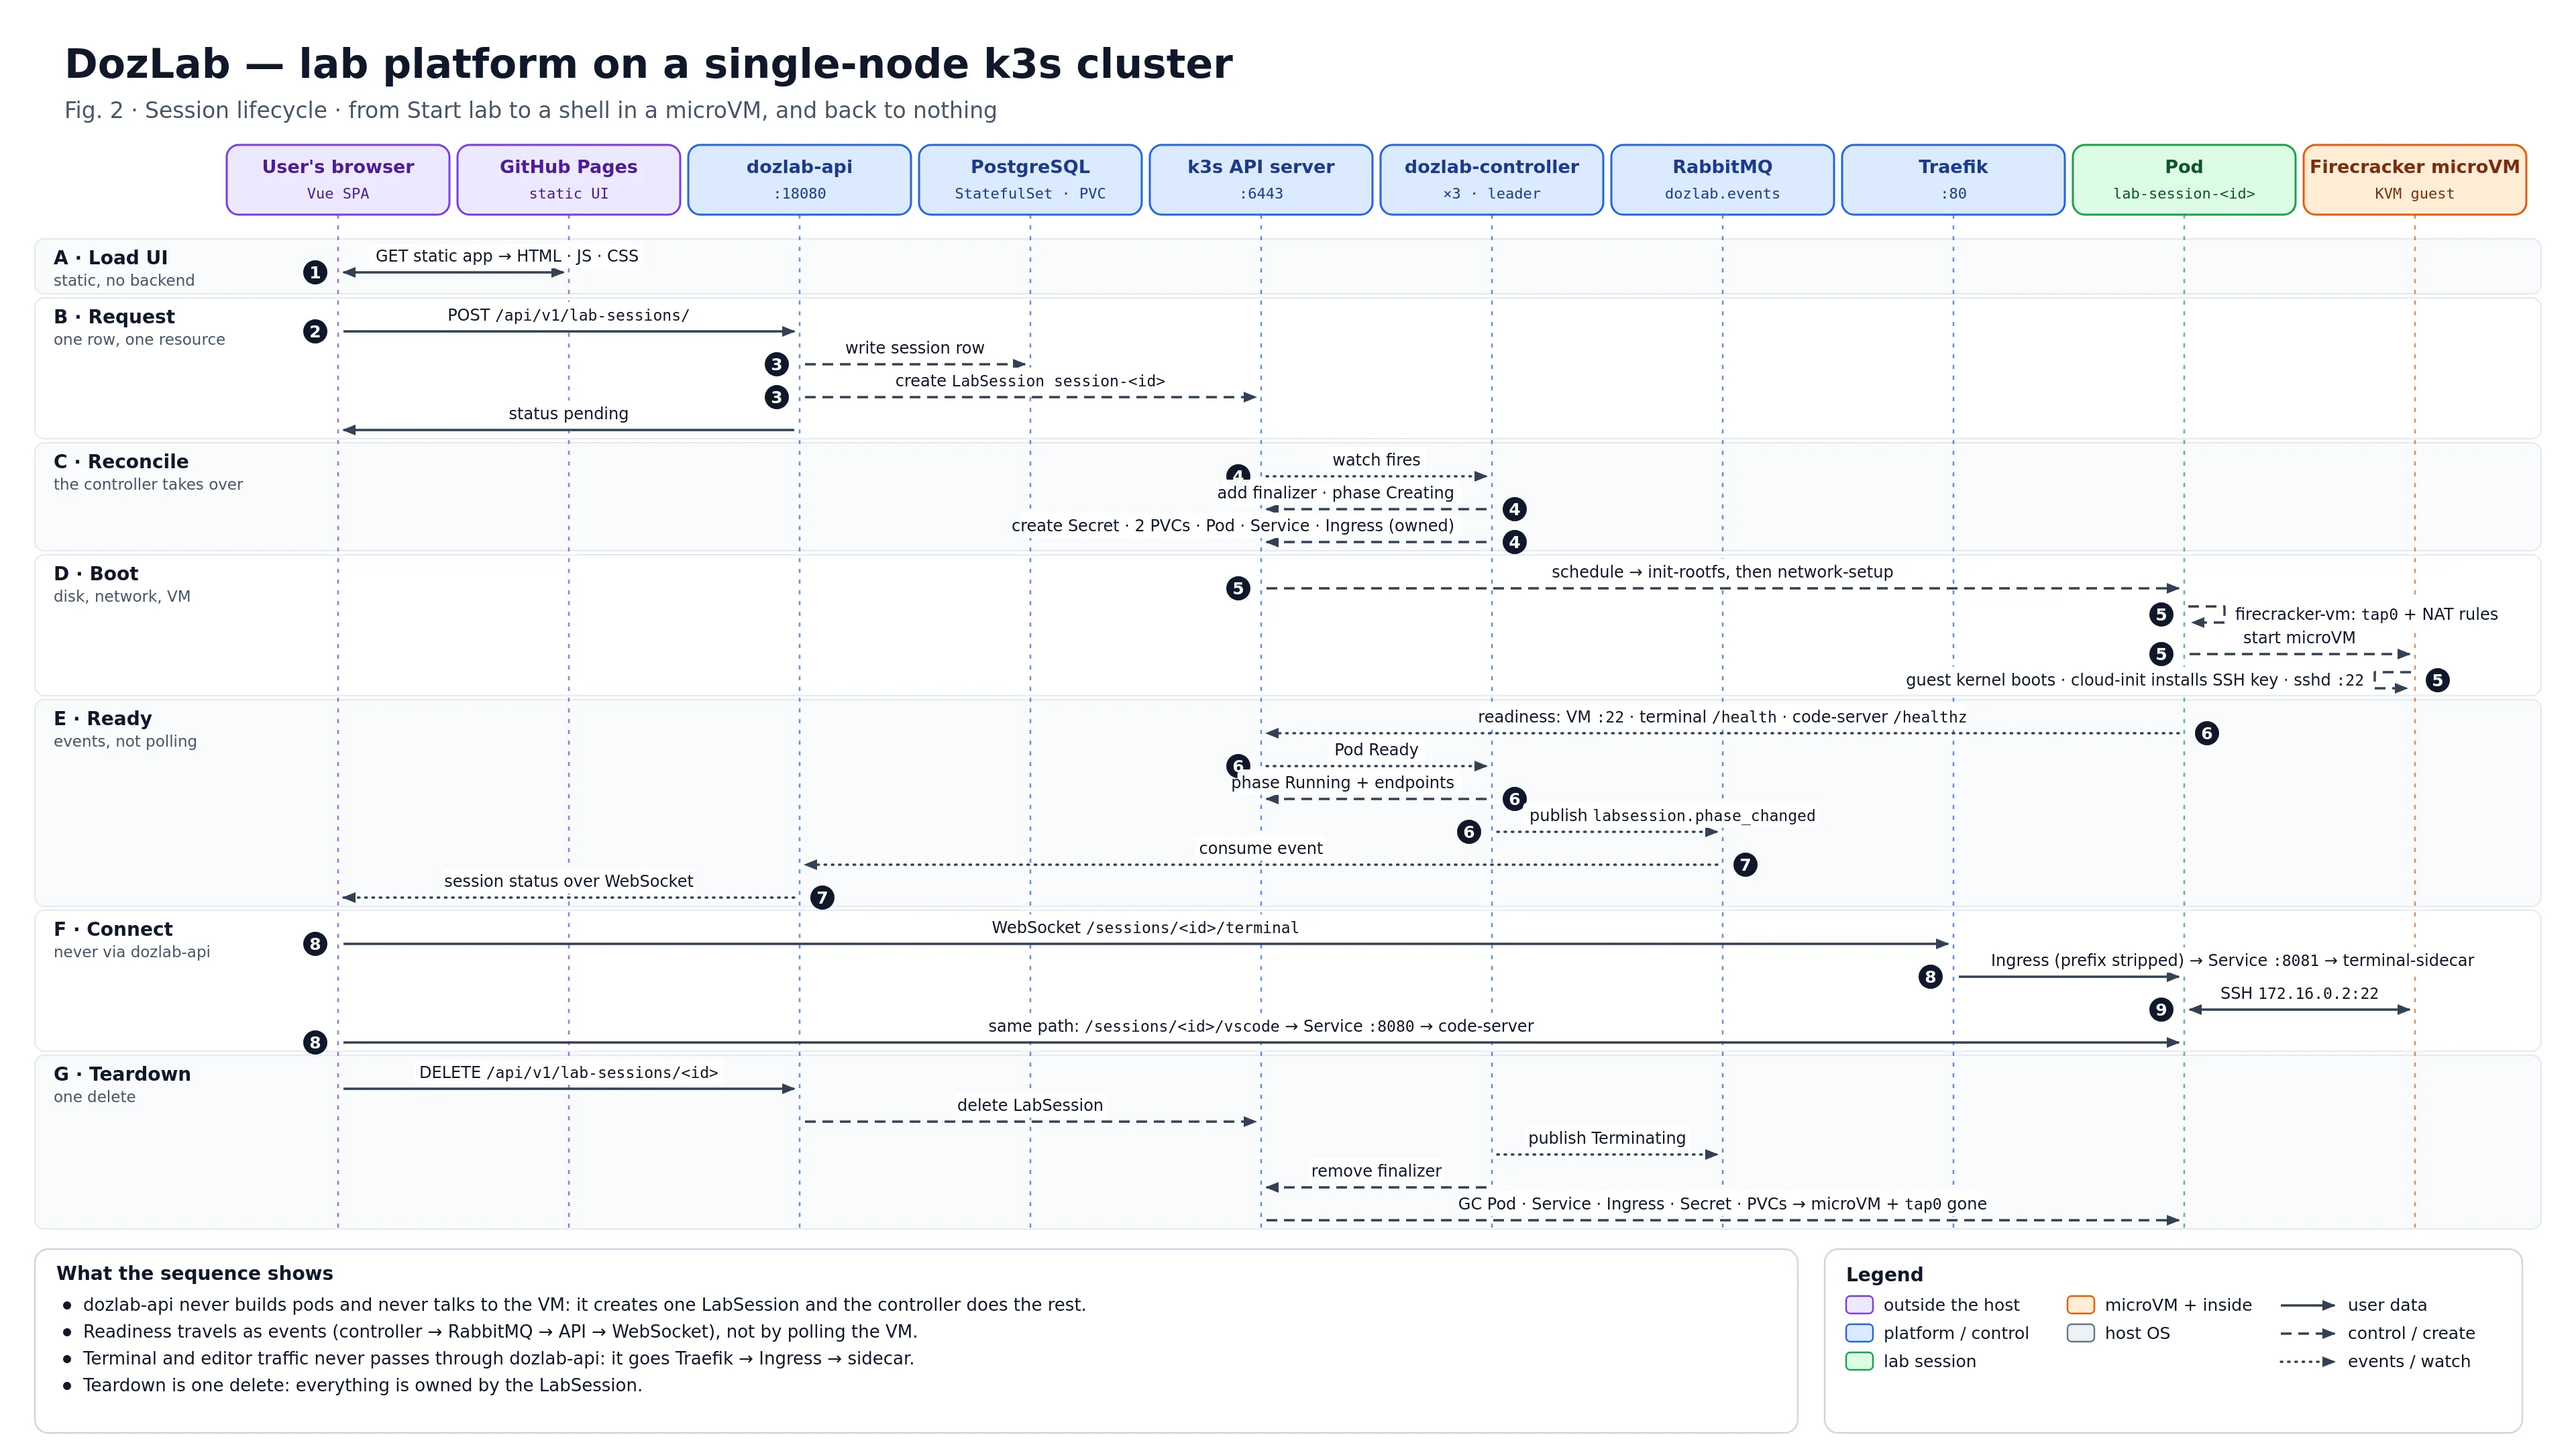
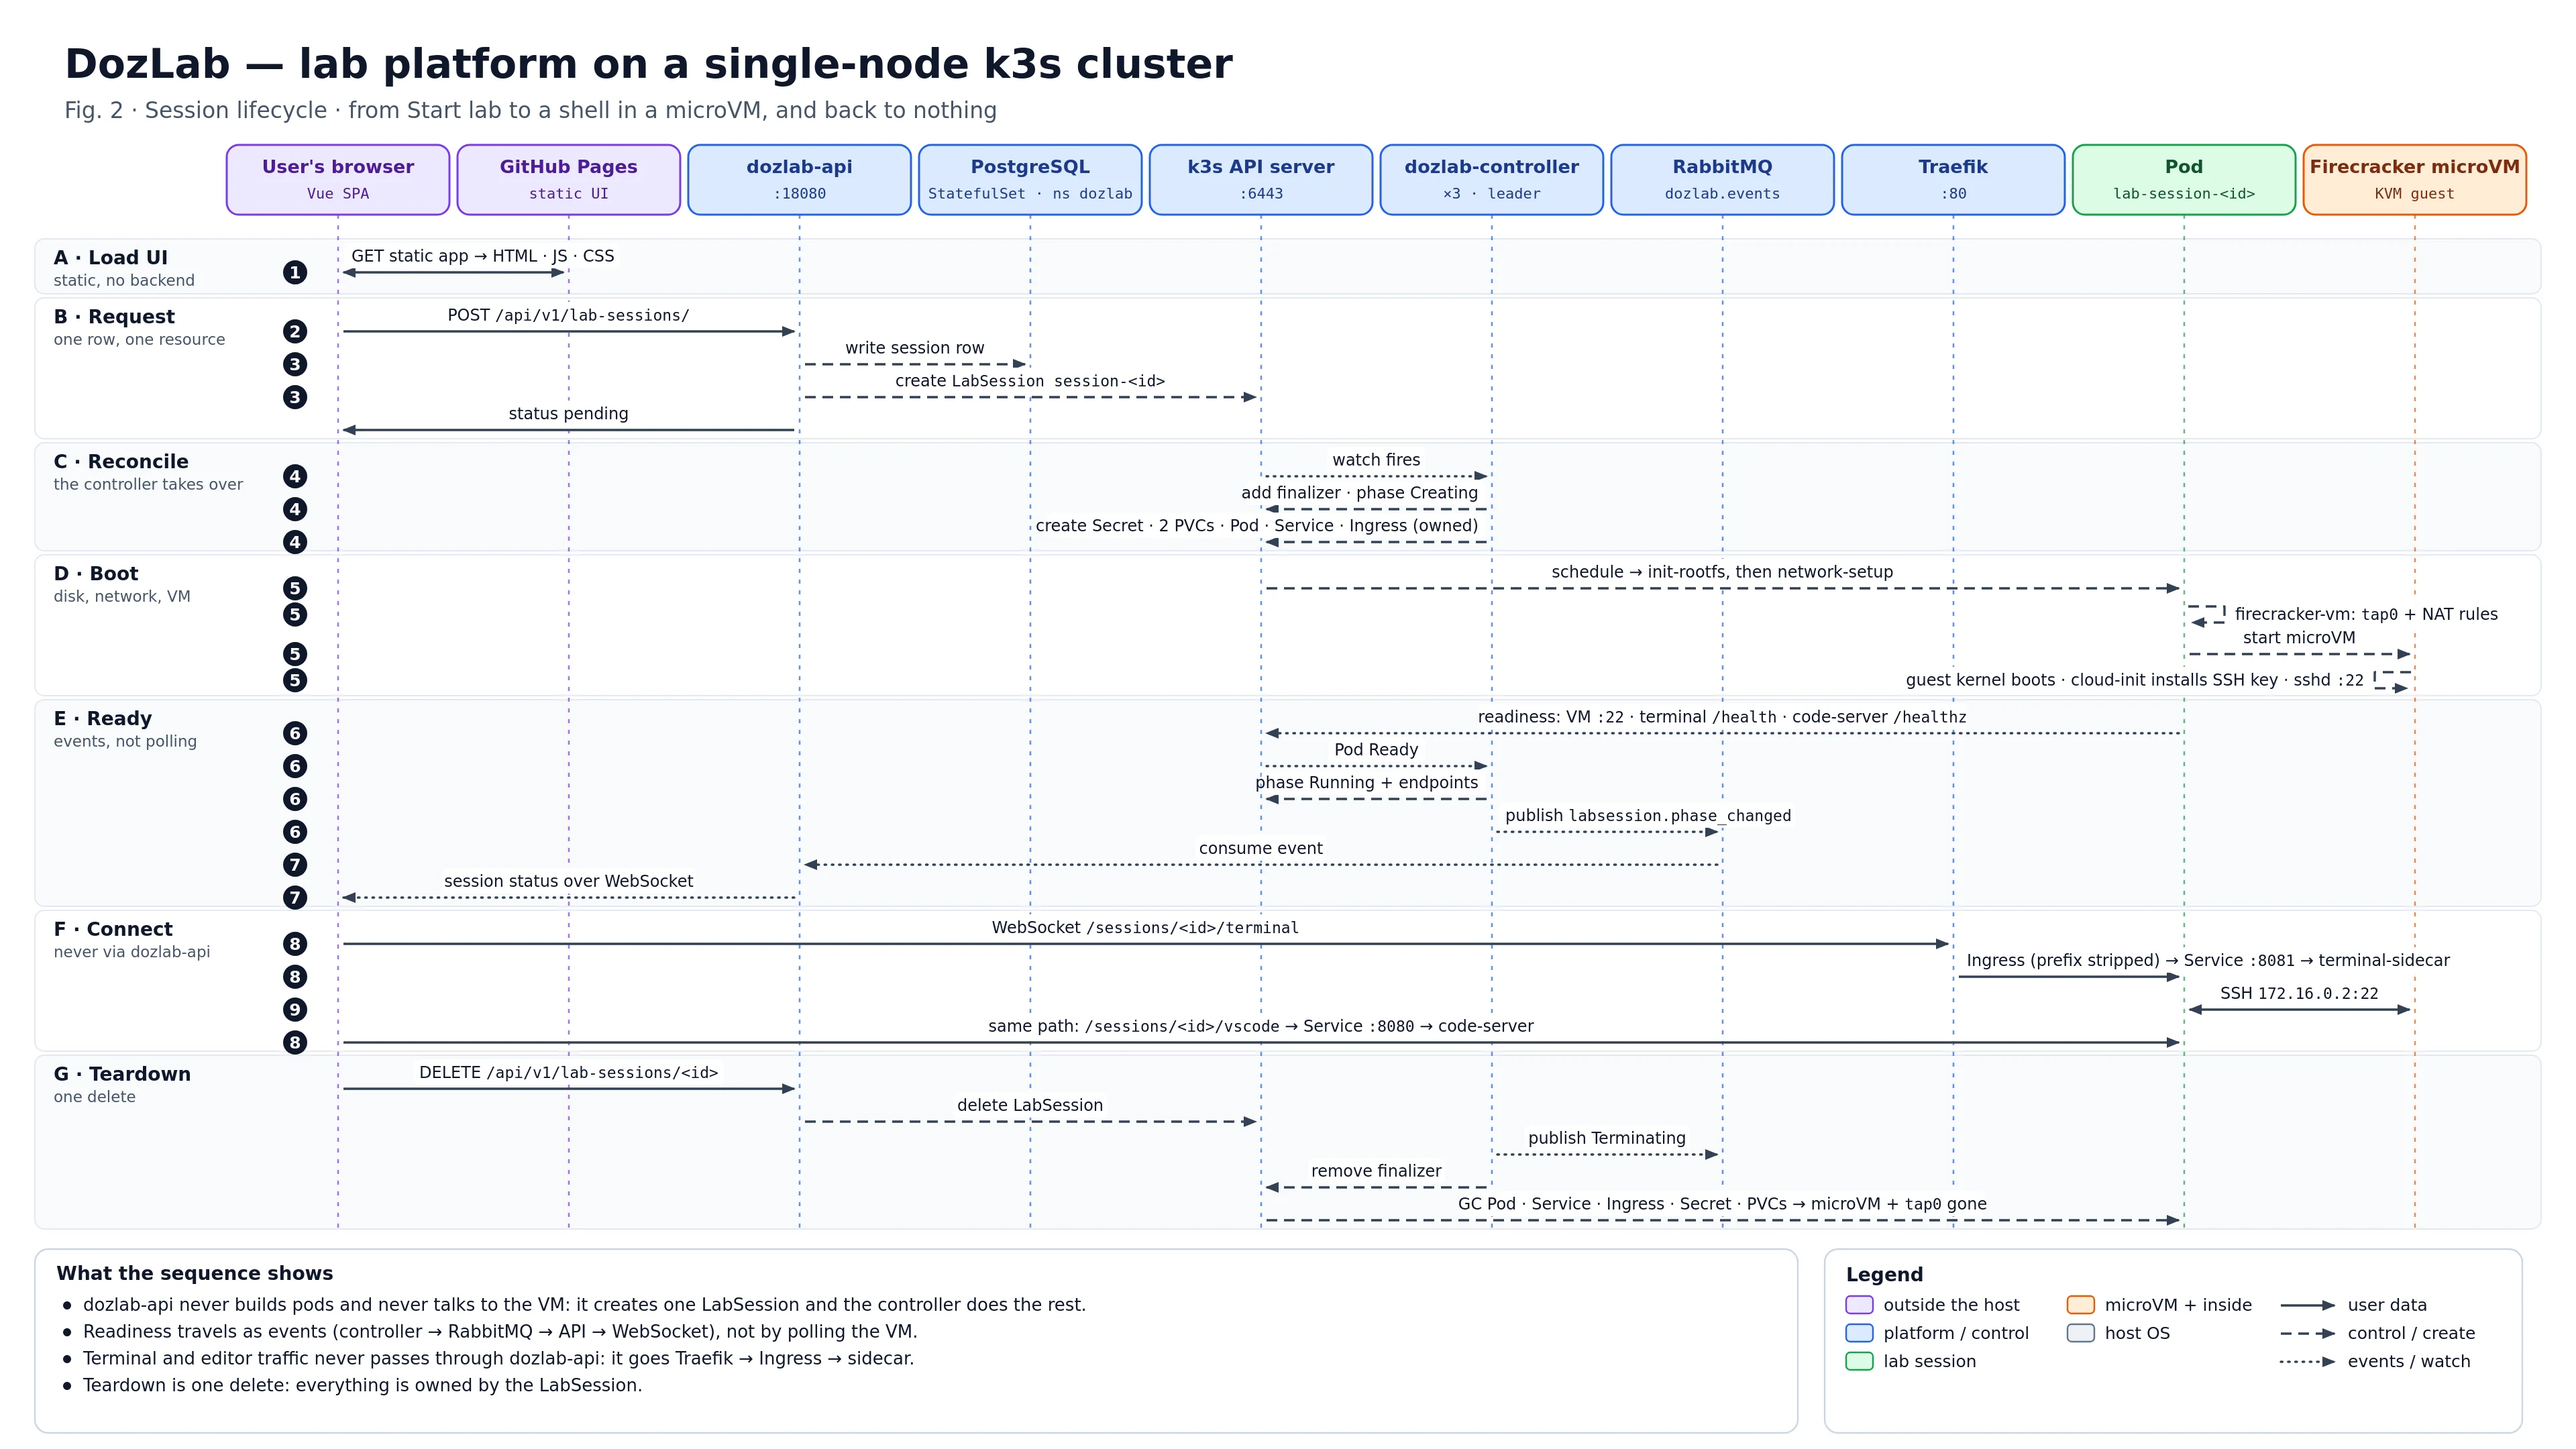
DozLab: redrawn overview and lifecycle figures
Both figures now show PostgreSQL as a StatefulSet in namespace dozlab
with its volume claim, and dozlab-api as the only host process. The
lifecycle figure replaces the hand-edited one.

diff --git a/src/data/canvases/dozlab.ts b/src/data/canvases/dozlab.ts
@@ -45,7 +45,7 @@ export const dozlabCanvas: CanvasData = {
     figures: [
       {
         src: "/dozlab/architecture-overview.webp",
-        alt: "System overview diagram: the browser and GitHub Pages outside the lab host; on the host, dozlab-api and PostgreSQL beside a k3s cluster with Traefik, the dozlab-controller, RabbitMQ and a lab session made of a LabSession resource and the Secret, volume claims, Service, Ingress and pod it owns",
+        alt: "System overview diagram: the browser and GitHub Pages outside the lab host; on the host, dozlab-api beside a k3s cluster with Traefik, the dozlab-controller, PostgreSQL and RabbitMQ as StatefulSets, and a lab session made of a LabSession resource and the Secret, volume claims, Service, Ingress and pod it owns",
         caption:
           "System overview: how one browser tab reaches a lab running inside a Firecracker microVM.",
         width: 3840,
